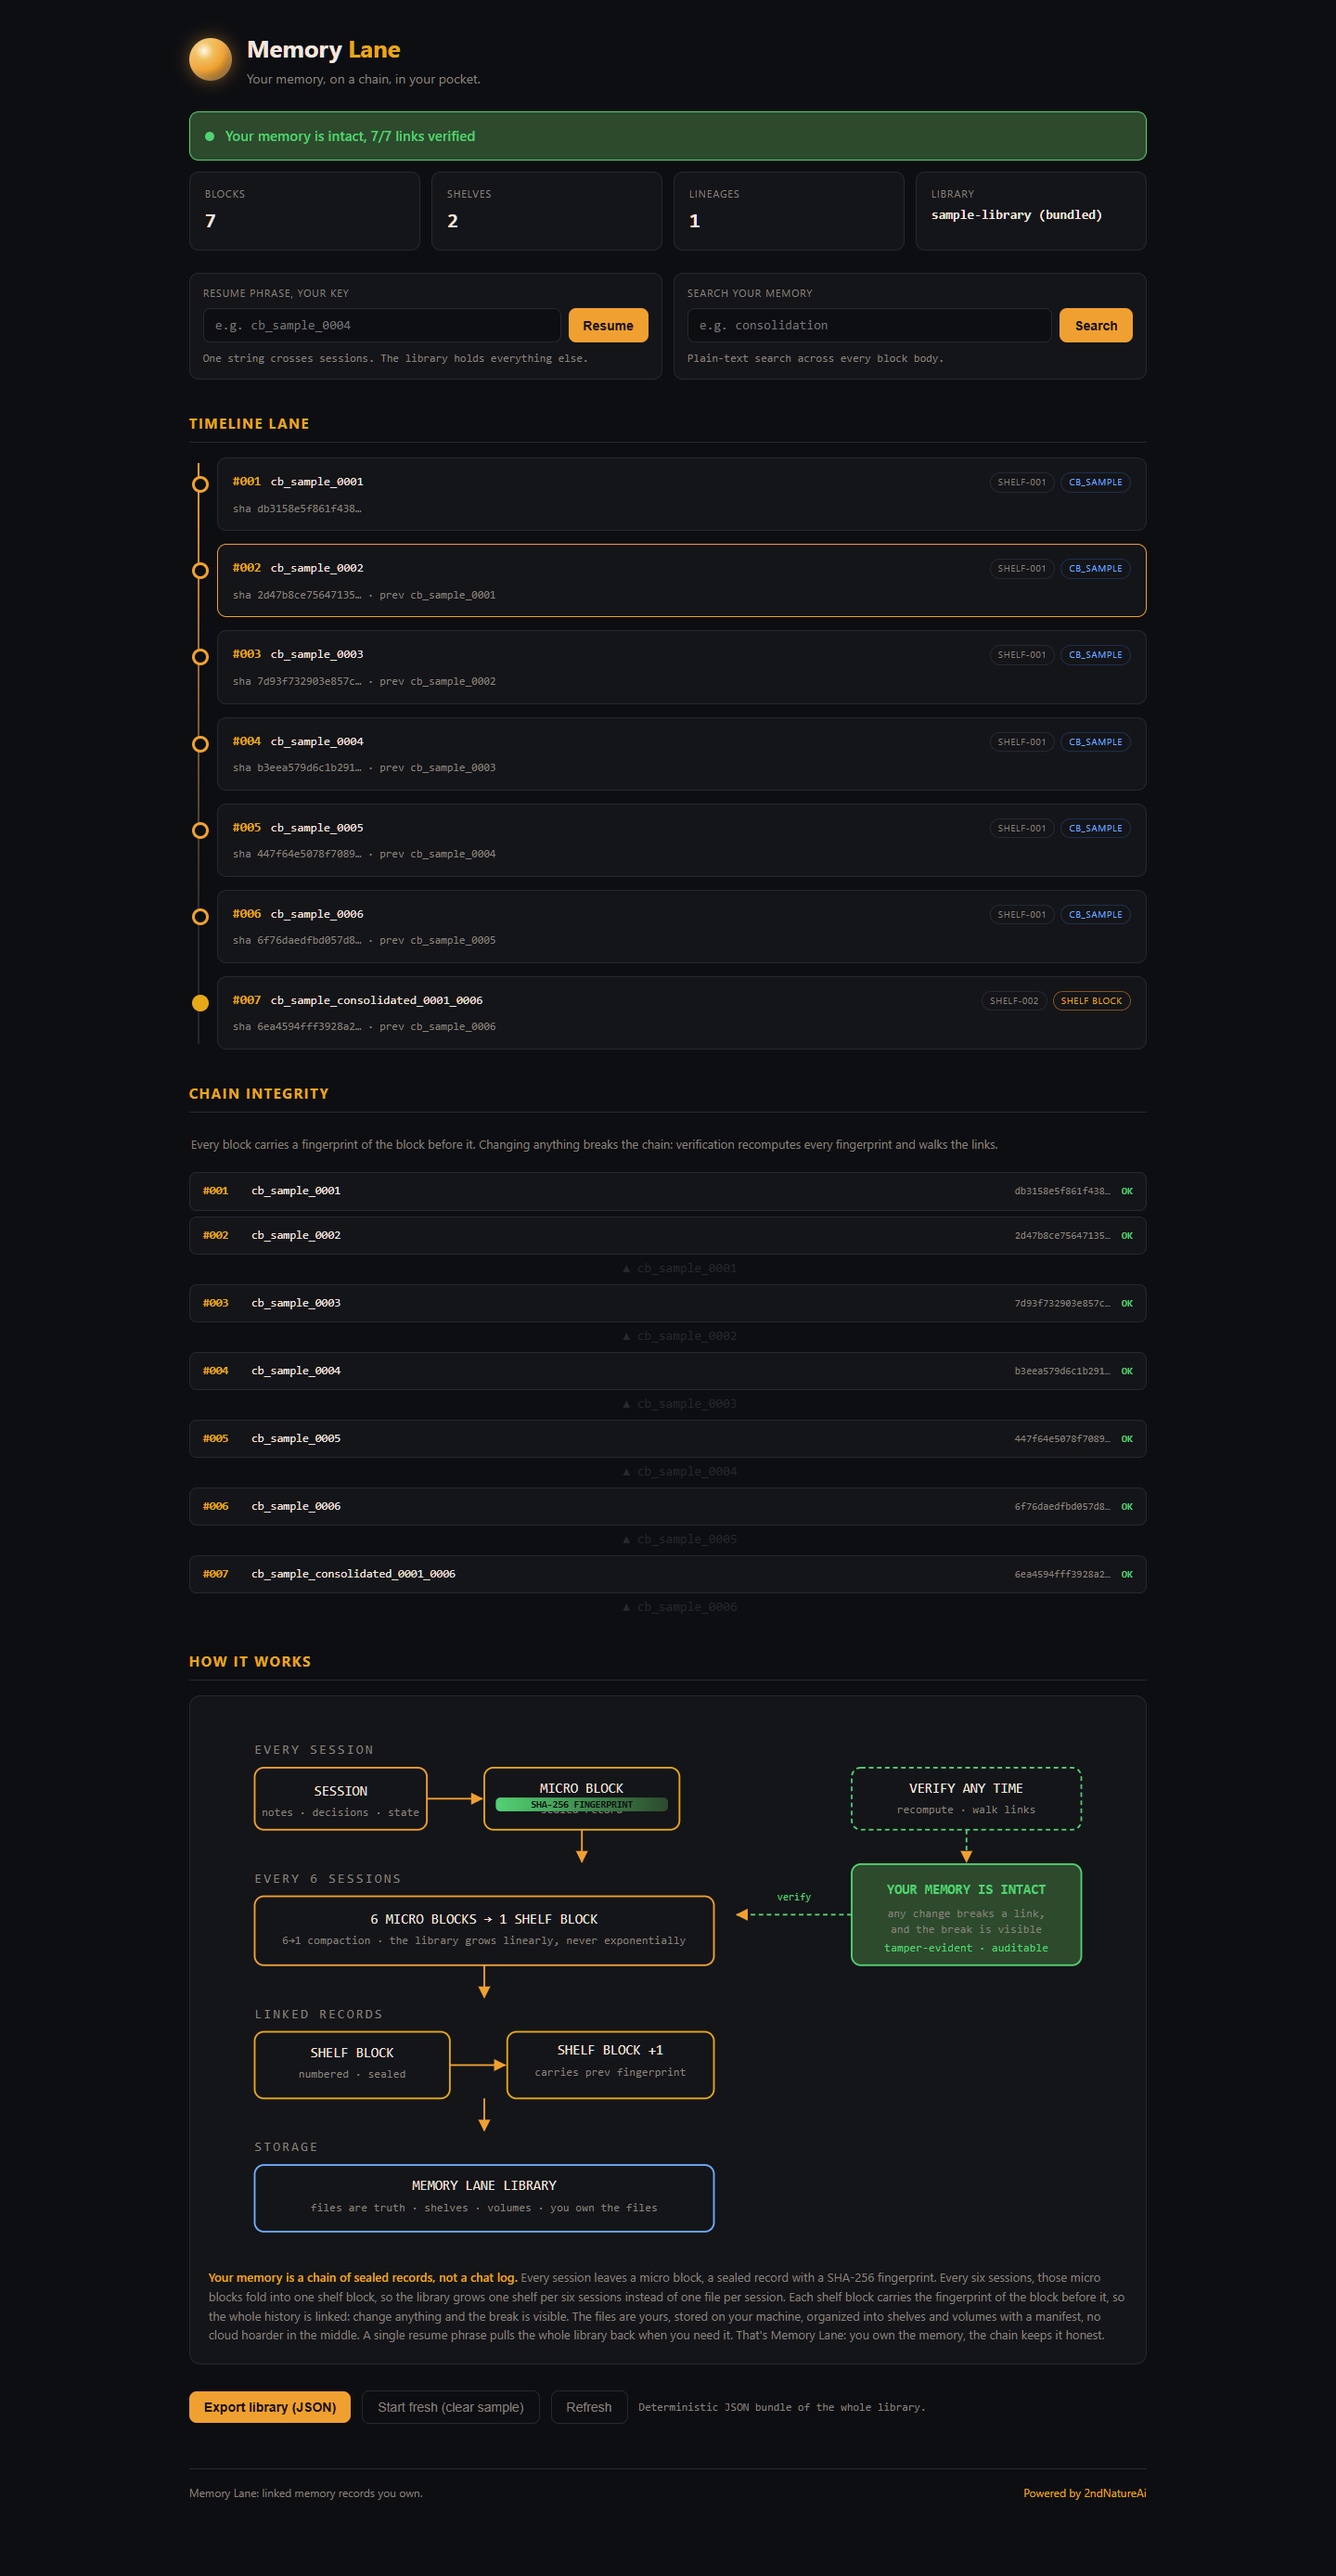
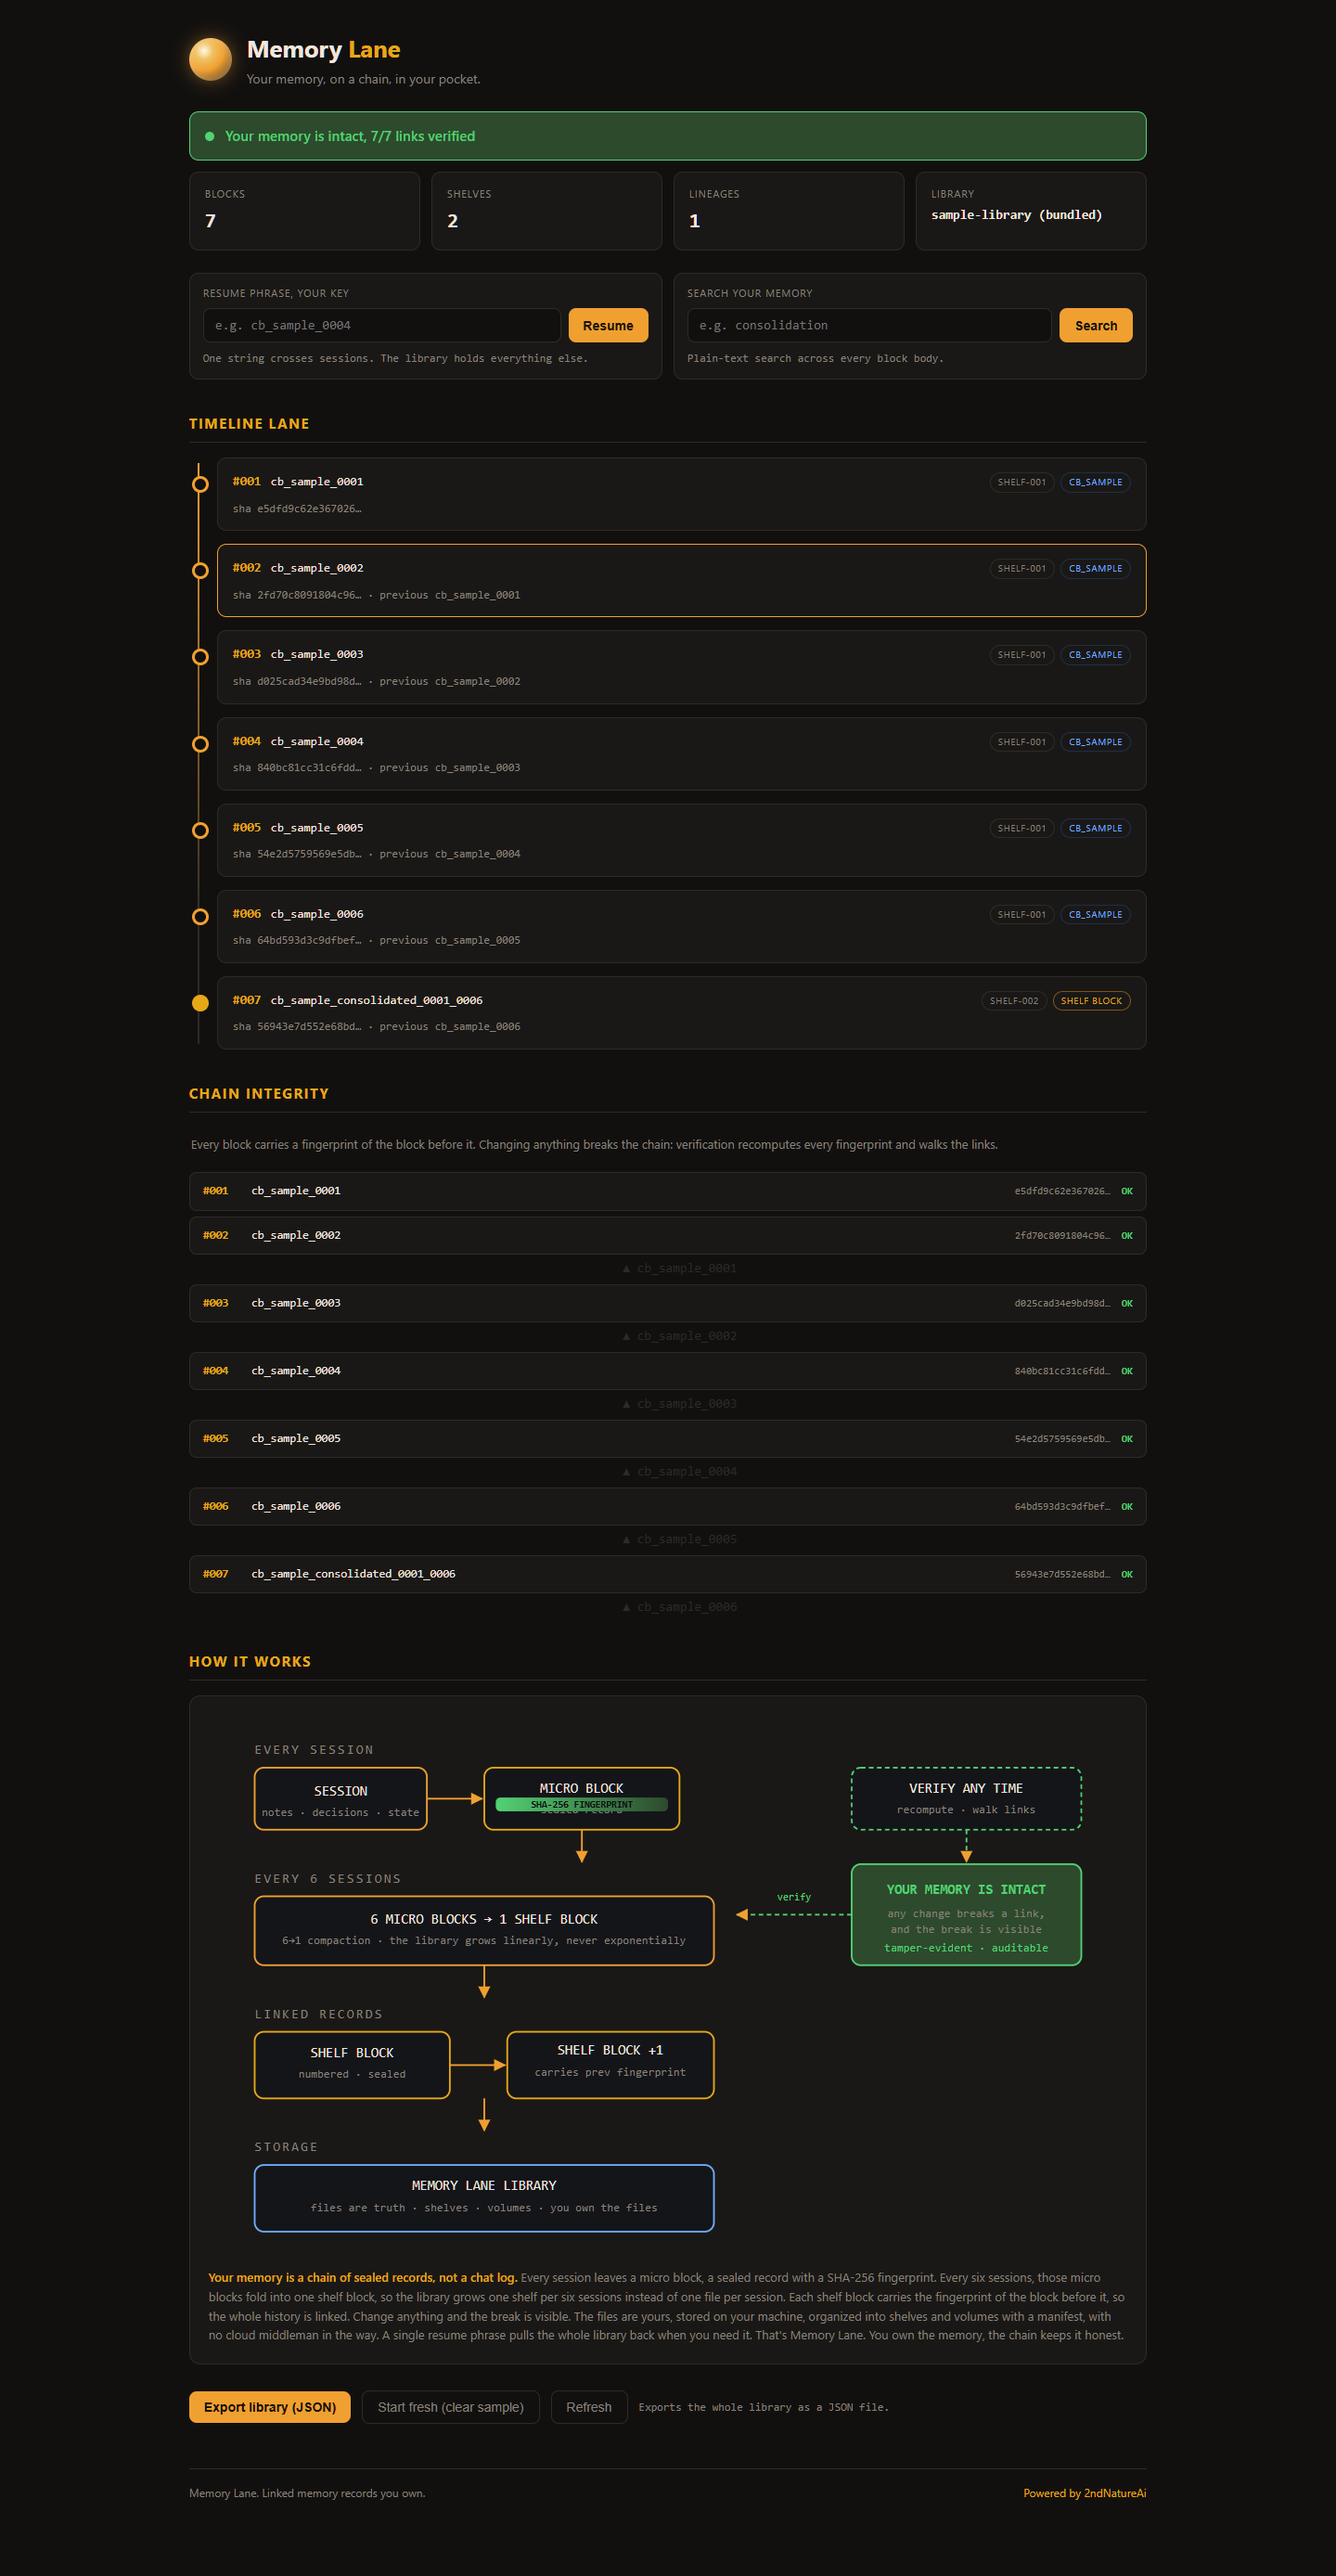
copy: remove AI-tell punctuation (semicolons, transition colons) from human-facing copy — README, UI strings, sample bodies; regen screenshot

Changed region(s): [[0.25, 0.8984, 0.8125, 0.9294]]

diff --git a/public/memory-lane.html b/public/memory-lane.html
@@ -4,7 +4,7 @@
 <meta charset="UTF-8">
 <meta name="viewport" content="width=device-width, initial-scale=1.0">
 <link rel="icon" href="data:,">
-<title>Memory Lane: your memory, on a chain, in your pocket</title>
+<title>Memory Lane. Your memory, on a chain, in your pocket.</title>
 <style>
   :root {
     --bg: #12100f;
@@ -226,7 +226,7 @@
   <div class="empty-state" id="emptyState">
     <div class="orb-lg"></div>
     <h3>Your memory <span class="gold">lane</span> is empty</h3>
-    <p>This is where your records will live. Every session you seal becomes a block on your lane: a sealed record with a fingerprint, chained to the one before it.</p>
+    <p>This is where your records will live. Every session you seal becomes a block on your lane, a sealed record with a fingerprint, chained to the one before it.</p>
     <div class="actions">
       <button id="loadSampleBtn">Load sample library</button>
     </div>
@@ -340,7 +340,7 @@
       <text x="510" y="162" text-anchor="middle" fill="#52d273" font-size="9" font-family="monospace">verify</text>
     </svg>
     <div class="flow-caption">
-      <b>Your memory is a chain of sealed records, not a chat log.</b> Every session leaves a micro block, a sealed record with a SHA-256 fingerprint. Every six sessions, those micro blocks fold into one shelf block, so the library grows one shelf per six sessions instead of one file per session. Each shelf block carries the fingerprint of the block before it, so the whole history is linked: change anything and the break is visible. The files are yours, stored on your machine, organized into shelves and volumes with a manifest, with no cloud middleman in the way. A single resume phrase pulls the whole library back when you need it. That's Memory Lane: you own the memory, the chain keeps it honest.
+      <b>Your memory is a chain of sealed records, not a chat log.</b> Every session leaves a micro block, a sealed record with a SHA-256 fingerprint. Every six sessions, those micro blocks fold into one shelf block, so the library grows one shelf per six sessions instead of one file per session. Each shelf block carries the fingerprint of the block before it, so the whole history is linked. Change anything and the break is visible. The files are yours, stored on your machine, organized into shelves and volumes with a manifest, with no cloud middleman in the way. A single resume phrase pulls the whole library back when you need it. That's Memory Lane. You own the memory, the chain keeps it honest.
     </div>
   </div>
 
@@ -352,7 +352,7 @@
   </div>
 
   <footer>
-    <span>Memory Lane: linked memory records you own.</span>
+    <span>Memory Lane. Linked memory records you own.</span>
     <span class="powered">Powered by 2ndNatureAi</span>
   </footer>
 </div>

diff --git a/README.md b/README.md
@@ -2,17 +2,17 @@
 
 **Your memory, on a chain, in your pocket.**
 
-Memory Lane is a local-first, tamper-evident memory library. Every session leaves a sealed record with a SHA-256 fingerprint; every six records fold into one shelf block; and each shelf block carries the fingerprint of the one before it. The result is a chain of linked records you own, organized into shelves and volumes on your own machine, verified in seconds, and resumed with a single phrase.
+Memory Lane is a local-first, tamper-evident memory library. Every session leaves a sealed record with a SHA-256 fingerprint, every six records fold into one shelf block, and each shelf block carries the fingerprint of the one before it. The result is a chain of linked records you own, organized into shelves and volumes on your own machine, verified in seconds, and resumed with a single phrase.
 
 **You own the memory. The chain keeps it honest.**
 
-Memory Lane is a public-beta web interface over a plain-file library. No cloud, no account, no telemetry. The files are the source of truth; the interface is a window over them. If the interface disappears, the library is still right there on disk.
+Memory Lane is a public-beta web interface over a plain-file library. No cloud, no account, no telemetry. The files are the source of truth and the interface is a window over them. If the interface disappears, the library is still right there on disk.
 
 > Memory Lane is a controlled public beta. All data stays local to the machine that runs it. It is not a hosted service and carries no production SLA.
 
 ![Memory Lane](docs/images/memory-lane-public.png)
 
-*Shown with the bundled sample loaded via the "Load sample library" button. A fresh clone opens blank: your lane is empty until you seal records. The sample is fabricated demo data that never touches your machine.*
+*Shown with the bundled sample loaded via the "Load sample library" button. A fresh clone opens blank, your lane is empty until you seal records. The sample is fabricated demo data that never touches your machine.*
 
 **Live demo:** [watch in action](docs/images/memory-lane-demo.mp4), a real click-through of the first-run empty lane, loading the sample, expanding a block, searching, and resetting to blank.
 
@@ -54,7 +54,7 @@ A library is a directory containing a `MANIFEST.json` and a `shelves/` tree of b
 
 ## How the chain works
 
-Every session ends as a **micro block**: a sealed record with a SHA-256 fingerprint. Every six sessions, those micro blocks are consolidated into one **shelf block**, numbered, timestamped, and chained to the shelf block before it by carrying its fingerprint. Blocks are filed into **shelves** (six per shelf), grouped into **volumes**, and tracked in a **manifest**.
+Every session ends as a **micro block**, a sealed record with a SHA-256 fingerprint. Every six sessions, those micro blocks are consolidated into one **shelf block**, numbered, timestamped, and chained to the shelf block before it by carrying its fingerprint. Blocks are filed into **shelves** (six per shelf), grouped into **volumes**, and tracked in a **manifest**.
 
 Verification recomputes every fingerprint and walks the links. Three states, deliberately simple:
 
@@ -62,7 +62,7 @@ Verification recomputes every fingerprint and walks the links. Three states, del
 - **Unverifiable**, a link exists but no recorded fingerprint exists to compare (neutral, not corruption)
 - **Needs attention**, a fingerprint mismatches or a referenced block is missing
 
-That's the whole trust model: you can prove your memory hasn't been altered, and if it has, the break tells you exactly where.
+That's the whole trust model. You can prove your memory hasn't been altered, and if it has, the break tells you exactly where.
 
 ## API
 

diff --git a/sample-library/shelves/shelf-002/block-007.md b/sample-library/shelves/shelf-002/block-007.md
@@ -6,7 +6,7 @@ block_number: 7
 status: active
 timestamp: "2026-08-01T00:00:00Z"
 previous_block: cb_sample_0006
-previous_hash: aeeff9a8cbe1acb1feceeda6bf625b3720fdb0a3818a92e5b7b4f6f45b8e61ff
+previous_hash: 64bd593d3c9dfbeff94dd56a316d09b3bc500e4ebdc1d99df58beef7ab3c4b26
 consolidates: [cb_sample_0001, cb_sample_0002, cb_sample_0003, cb_sample_0004, cb_sample_0005, cb_sample_0006]
 ---
 
@@ -15,7 +15,7 @@ consolidates: [cb_sample_0001, cb_sample_0002, cb_sample_0003, cb_sample_0004, c
 ## What this is
 
 Six sample records (001 through 006) folded into one shelf record. This is
-how the library stays lean: every six records become a single shelf entry,
+how the library stays lean. Every six records become a single shelf entry,
 so the lane grows one shelf per six sessions instead of one file per session.
 
 ## Records in this group

diff --git a/sample-library/blocks/micro-2026-07/cb_sample_0002.md b/sample-library/blocks/micro-2026-07/cb_sample_0002.md
@@ -10,7 +10,7 @@ previous_block: cb_sample_0001
 
 # Architecture Review
 
-Reviewed the memory-layer architecture against the constraint stack. Decision: files stay the source of truth; any index is derived and disposable. This block records the decision and links back to block 001.
+Reviewed the memory-layer architecture against the constraint stack. Files stay the source of truth, and any index is derived and disposable. This block records the decision and links back to block 001.
 
 ---
 *Sample record 2 of 6. Fabricated demo content for the Memory Lane sample library.*

diff --git a/sample-library/shelves/shelf-001/block-002.md b/sample-library/shelves/shelf-001/block-002.md
@@ -10,7 +10,7 @@ previous_block: cb_sample_0001
 
 # Architecture Review
 
-Reviewed the memory-layer architecture against the constraint stack. Decision: files stay the source of truth; any index is derived and disposable. This block records the decision and links back to block 001.
+Reviewed the memory-layer architecture against the constraint stack. Files stay the source of truth, and any index is derived and disposable. This block records the decision and links back to block 001.
 
 ---
 *Sample record 2 of 6. Fabricated demo content for the Memory Lane sample library.*

diff --git a/sample-library/blocks/micro-2026-07/cb_sample_0001.md b/sample-library/blocks/micro-2026-07/cb_sample_0001.md
@@ -10,7 +10,7 @@ previous_block: none
 
 # Product Notes
 
-First sample session. The user captured a set of product notes for the memory layer and filed them as the first micro block. This is the shape every session leaves behind: a sealed record with a fingerprint.
+First sample session. The user captured a set of product notes for the memory layer and filed them as the first micro block. This is the shape every session leaves behind, a sealed record with a fingerprint.
 
 ---
 *Sample record 1 of 6. Fabricated demo content for the Memory Lane sample library.*

diff --git a/sample-library/shelves/shelf-001/block-001.md b/sample-library/shelves/shelf-001/block-001.md
@@ -10,7 +10,7 @@ previous_block: none
 
 # Product Notes
 
-First sample session. The user captured a set of product notes for the memory layer and filed them as the first micro block. This is the shape every session leaves behind: a sealed record with a fingerprint.
+First sample session. The user captured a set of product notes for the memory layer and filed them as the first micro block. This is the shape every session leaves behind, a sealed record with a fingerprint.
 
 ---
 *Sample record 1 of 6. Fabricated demo content for the Memory Lane sample library.*

diff --git a/sample-library/blocks/micro-2026-07/cb_sample_0006.md b/sample-library/blocks/micro-2026-07/cb_sample_0006.md
@@ -10,7 +10,7 @@ previous_block: cb_sample_0005
 
 # Market Watch
 
-Logged the market validation notes for the agent-memory category. Six micro blocks now sit in the chain; the next consolidation pass will fold them into one canonical shelf block.
+Logged the market validation notes for the agent-memory category. Six micro blocks now sit in the chain, and the next consolidation pass will fold them into one canonical shelf block.
 
 ---
 *Sample record 6 of 6. Fabricated demo content for the Memory Lane sample library.*

diff --git a/sample-library/shelves/shelf-001/block-006.md b/sample-library/shelves/shelf-001/block-006.md
@@ -10,7 +10,7 @@ previous_block: cb_sample_0005
 
 # Market Watch
 
-Logged the market validation notes for the agent-memory category. Six micro blocks now sit in the chain; the next consolidation pass will fold them into one canonical shelf block.
+Logged the market validation notes for the agent-memory category. Six micro blocks now sit in the chain, and the next consolidation pass will fold them into one canonical shelf block.
 
 ---
 *Sample record 6 of 6. Fabricated demo content for the Memory Lane sample library.*

diff --git a/sample-library/blocks/micro-2026-07/cb_sample_0005.md b/sample-library/blocks/micro-2026-07/cb_sample_0005.md
@@ -10,7 +10,7 @@ previous_block: cb_sample_0004
 
 # Release Prep
 
-Prepared a public product repo for release. Same quality bar as the rest of the family: README, screenshot, tests, license, security policy.
+Prepared a public product repo for release. Same quality bar as the rest of the family, with a README, screenshot, tests, license, and security policy.
 
 ---
 *Sample record 5 of 6. Fabricated demo content for the Memory Lane sample library.*

diff --git a/sample-library/shelves/shelf-001/block-005.md b/sample-library/shelves/shelf-001/block-005.md
@@ -10,7 +10,7 @@ previous_block: cb_sample_0004
 
 # Release Prep
 
-Prepared a public product repo for release. Same quality bar as the rest of the family: README, screenshot, tests, license, security policy.
+Prepared a public product repo for release. Same quality bar as the rest of the family, with a README, screenshot, tests, license, and security policy.
 
 ---
 *Sample record 5 of 6. Fabricated demo content for the Memory Lane sample library.*

diff --git a/sample-library/blocks/micro-2026-07/cb_sample_0004.md b/sample-library/blocks/micro-2026-07/cb_sample_0004.md
@@ -10,7 +10,7 @@ previous_block: cb_sample_0003
 
 # Team Briefing
 
-Drafted the weekly team memo. Shared notes are the default reading surface; the library is the record of how decisions were reached.
+Drafted the weekly team memo. Shared notes are the default reading surface, and the library is the record of how decisions were reached.
 
 ---
 *Sample record 4 of 6. Fabricated demo content for the Memory Lane sample library.*
